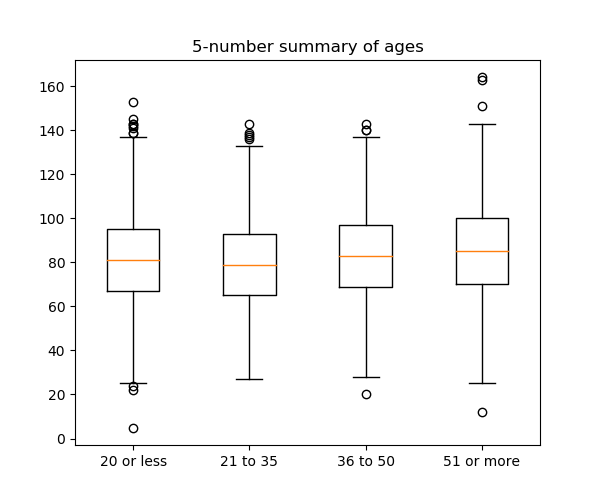
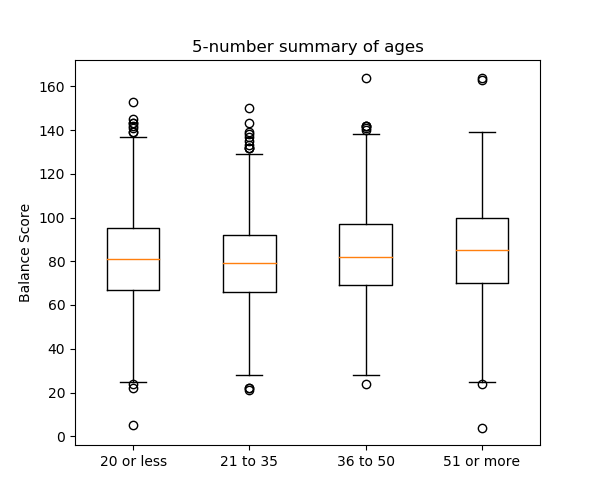
update images

diff --git a/src/well-style-cs1.py b/src/well-style-cs1.py
@@ -108,8 +108,8 @@ def box_ages():
     fig, ax = plt.subplots(figsize=(6,5), sharey=True)
     ax.boxplot(x1, positions=[1,2,3,4], labels=['20 or less','21 to 35', '36 to 50', '51 or more'])
     ax.set_title('5-number summary of ages')
-    
-    #plt.savefig('../images/box_ages.png')    
+    ax.set_ylabel('Balance Score')
+    plt.savefig('../images/box_ages.png')    
     #plt.show()
     
 def hist_bal_by_mf():
@@ -168,7 +168,7 @@ def box_mf_age():
     ax.boxplot(x, labels=['m:20 or less','m:21 to 35', 'm:36 to 50', 'm:51 or more', 'f:20 or less', 'f:21 to 35', 'f:36 to 50', 'f:51 or more'])
     ax.set_title('5-number summary of males and females by age')
     ax.set_ylabel('Balance Score')
-    # plt.savefig('../images/box_mf_age.png')    
+    #plt.savefig('../images/box_mf_age.png')    
     #plt.show()
 
 if __name__ == '__main__':
@@ -243,9 +243,9 @@ if __name__ == '__main__':
 
     # norm_dist_m = norm_dist(mean_male_bal, std_male_bal)
     
-    #plot_bal_ages = hist_bal_by_age()
-    # ages_box = box_ages()
+    # plot_bal_ages = hist_bal_by_age()
+    ages_box = box_ages()
     #plot_bal_m_f = hist_bal_by_mf()
     # mf_box = box_mf()
-    #plot_bal_mf_a = hist_bal_by_mf_age()    
+    # plot_bal_mf_a = hist_bal_by_mf_age()    
     # mf_a_box = box_mf_age()
